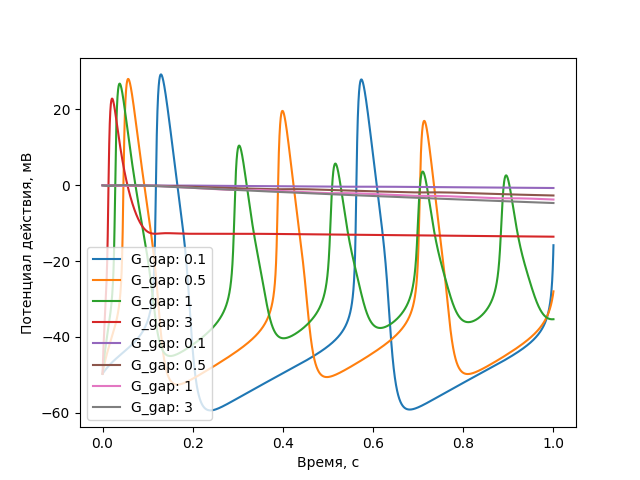
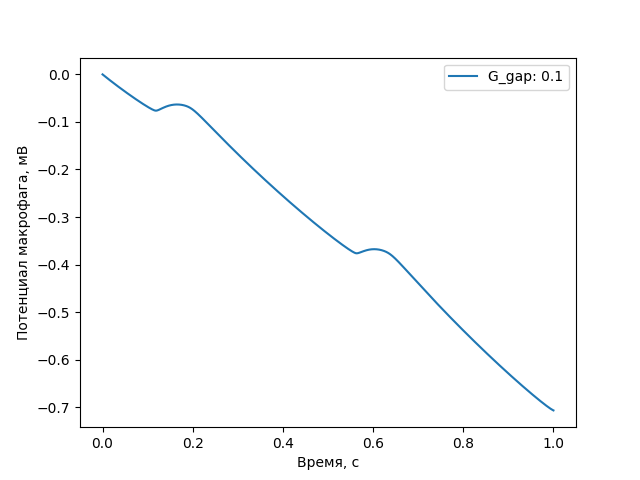
Протокол 2 Ошибка график

diff --git a/src/protocol_2.py b/src/protocol_2.py
@@ -1,15 +1,16 @@
 # Расчет до 10 с.
 # Поварьировать g_gap = [0.1, 0.5, 1, 3]
-# Поварьировать number_macrofag = [1, 2, 3]
 # График (число g_gap, частота стимуляции)
 # График (число g_gap, максимум ПД)
 # График (число g_gap, минимум ПД)
 # График (число g_gap, амрлитула ПД)
 # График (число g_gap, длительность потенциала действия)
+# Поварьировать number_macrofag = [1, 2, 3]
 
 
 from logger_config import setup_logger
 from scipy_solver import ScipySolver
+from scipy.signal import argrelmax, argrelmin
 import model as comp_model
 import matplotlib.pyplot as plt
 import numpy as np
@@ -26,47 +27,91 @@ def protocol_2():
         init_states, constants = comp_model.initConsts()
 
         gaps = [0.1]
+        number_macrofags = [1, 2]
         
 
         V = {}
         time = {}
         V_mak = {}
+        V_max = {}
+        V_min = {}
+        characteristics = {}
 
         for gap in gaps:
+            V_number = {}
+            t_number = {}
+            V_mac_number = {}
+            for number_macrofag in number_macrofags:
 
-            logger.info(f"Расчет модели с gap = {gap}")
+                logger.info(f"Расчет модели с gap = {gap} и number_macrofag = {number_macrofag}")
 
-            constants[58] = 1
-            constants[59] = gap
-            
-            solver = ScipySolver(
-                logger = logger,    
-                model=comp_model.computeRates,
-                t_span=[0, 1],
-                y0=init_states,
-                args=constants)
-            
-            voi, states = solver.solve()
+                constants[58] = number_macrofag
+                constants[59] = gap
+                
+                solver = ScipySolver(
+                    logger = logger,    
+                    model=comp_model.computeRates,
+                    t_span=[0, 1],
+                    y0=init_states,
+                    args=constants)
+                
+                voi, states = solver.solve()
+                V_number[number_macrofag] = states[0,:]
+                t_number[number_macrofag] = voi
+                V_mac_number[number_macrofag] = states[29,:]
 
-            V[gap] = states[0,:]
-            time[gap] = voi
-            V_mak[gap] = states[29,:]
+            V[gap] = V_number
+            time[gap] = t_number
+            V_mak[gap] = V_mac_number
 
         for gap in gaps:
-            plt.plot(time[gap],V[gap], label = f'G_gap: {gap}')
+            for number_macrofag in number_macrofags:
 
-        plt.xlabel('Время, с')
-        plt.ylabel('Потенциал действия, мВ')
-        plt.legend()
+                maximum_V_index = argrelmax(V[gap][number_macrofag])
+                maximum_V = V[gap][number_macrofag][maximum_V_index]
+                maximum_V_time = time[gap][number_macrofag][maximum_V_index]
+                V_max[gap] ={number_macrofag:{'index': maximum_V_index, 'maximum': maximum_V, 'time': maximum_V_time}}
+
+                print('Индексы максимумов V', maximum_V_index)
+                print('Максимумы V', maximum_V)
+                print('Время локальных максимумов', maximum_V_time)
+
+                minimum_V_index = argrelmin(V[gap][number_macrofag])
+                minimum_V = V[gap][number_macrofag][minimum_V_index]
+                minimum_V_time = time[gap][number_macrofag][minimum_V_index]
+                V_min[gap] = {number_macrofag:{'index': minimum_V_index, 'minimum': minimum_V, 'time': minimum_V_time}}
+
+                print('Индексы минимумов V', minimum_V_index)
+                print('Минимумы V', minimum_V)
+                print('Время локальных минимумов', minimum_V_time)
+
+                characteristics[gap] = {number_macrofag:{'ampl': maximum_V[-1]-minimum_V[-1], 'period': maximum_V_time[-1]-maximum_V_time[-2]}}
+                print('Амплитуда потенциала действия',characteristics[gap][number_macrofag]['ampl'], 'Период',characteristics[gap][number_macrofag]['period'])
+
+        fig, ax = plt.subplots()        
+        for gap in gaps:
+            for number_macrofag in number_macrofags:
+                ax.plot(time[gap][number_macrofag],V[gap][number_macrofag], label = f'G_gap: {gap}, nu: {number_macrofag} Pr: {characteristics[gap][number_macrofag]['period']:.2f} s.')
+                ax.scatter(V_max[gap][number_macrofag]['time'],V_max[gap][number_macrofag]['maximum'])
+                ax.scatter(V_min[gap][number_macrofag]['time'],V_min[gap][number_macrofag]['minimum'])
+                ax.plot([V_max[gap][number_macrofag]['time'][-1], V_max[gap][number_macrofag]['time'][-1]],
+                        [V_max[gap][number_macrofag]['maximum'][-1],V_max[gap][number_macrofag]['maximum'][-1]-characteristics[gap][number_macrofag]['ampl']],
+                        color = 'red')
+        ax.set_xlabel('Время, с')
+        ax.set_ylabel('Потенциал действия, мВ')
+        ax.legend()
         plt.savefig('plot.png')
+        plt.show()
 
+        fig, ax = plt.subplots()
         for gap in gaps:
-            plt.plot(time[gap],V_mak[gap], label = f'G_gap: {gap}')
+            ax.plot(time[gap],V_mak[gap], label = f'G_gap: {gap}')
 
-        plt.xlabel('Время, с')
-        plt.ylabel('Потенциал действия, мВ')
-        plt.legend()
+        ax.set_xlabel('Время, с')
+        ax.set_ylabel('Потенциал макрофага, мВ')
+        ax.legend()
         plt.savefig('plot1.png')
+        plt.show()
 
         logger.info("Программа завершена успешно")
 

diff --git a/src/main.py b/src/main.py
@@ -3,6 +3,7 @@ from scipy_solver import ScipySolver
 import model as comp_model
 import matplotlib.pyplot as plt
 import numpy as np
+from protocol_2 import protocol_2
 
 from protocol_1 import exp_1
 
@@ -43,7 +44,9 @@ def main():
 if __name__ == "__main__":
     # main()
 
-    number_cell = [0, 1]
-    time = [0, 1]
+    #number_cell = [0, 1]
+    #time = [0, 1]
 
-    exp_1(t_span=time, number_macrofags=number_cell)
+    #exp_1(t_span=time, number_macrofags=number_cell)
+
+    protocol_2()
